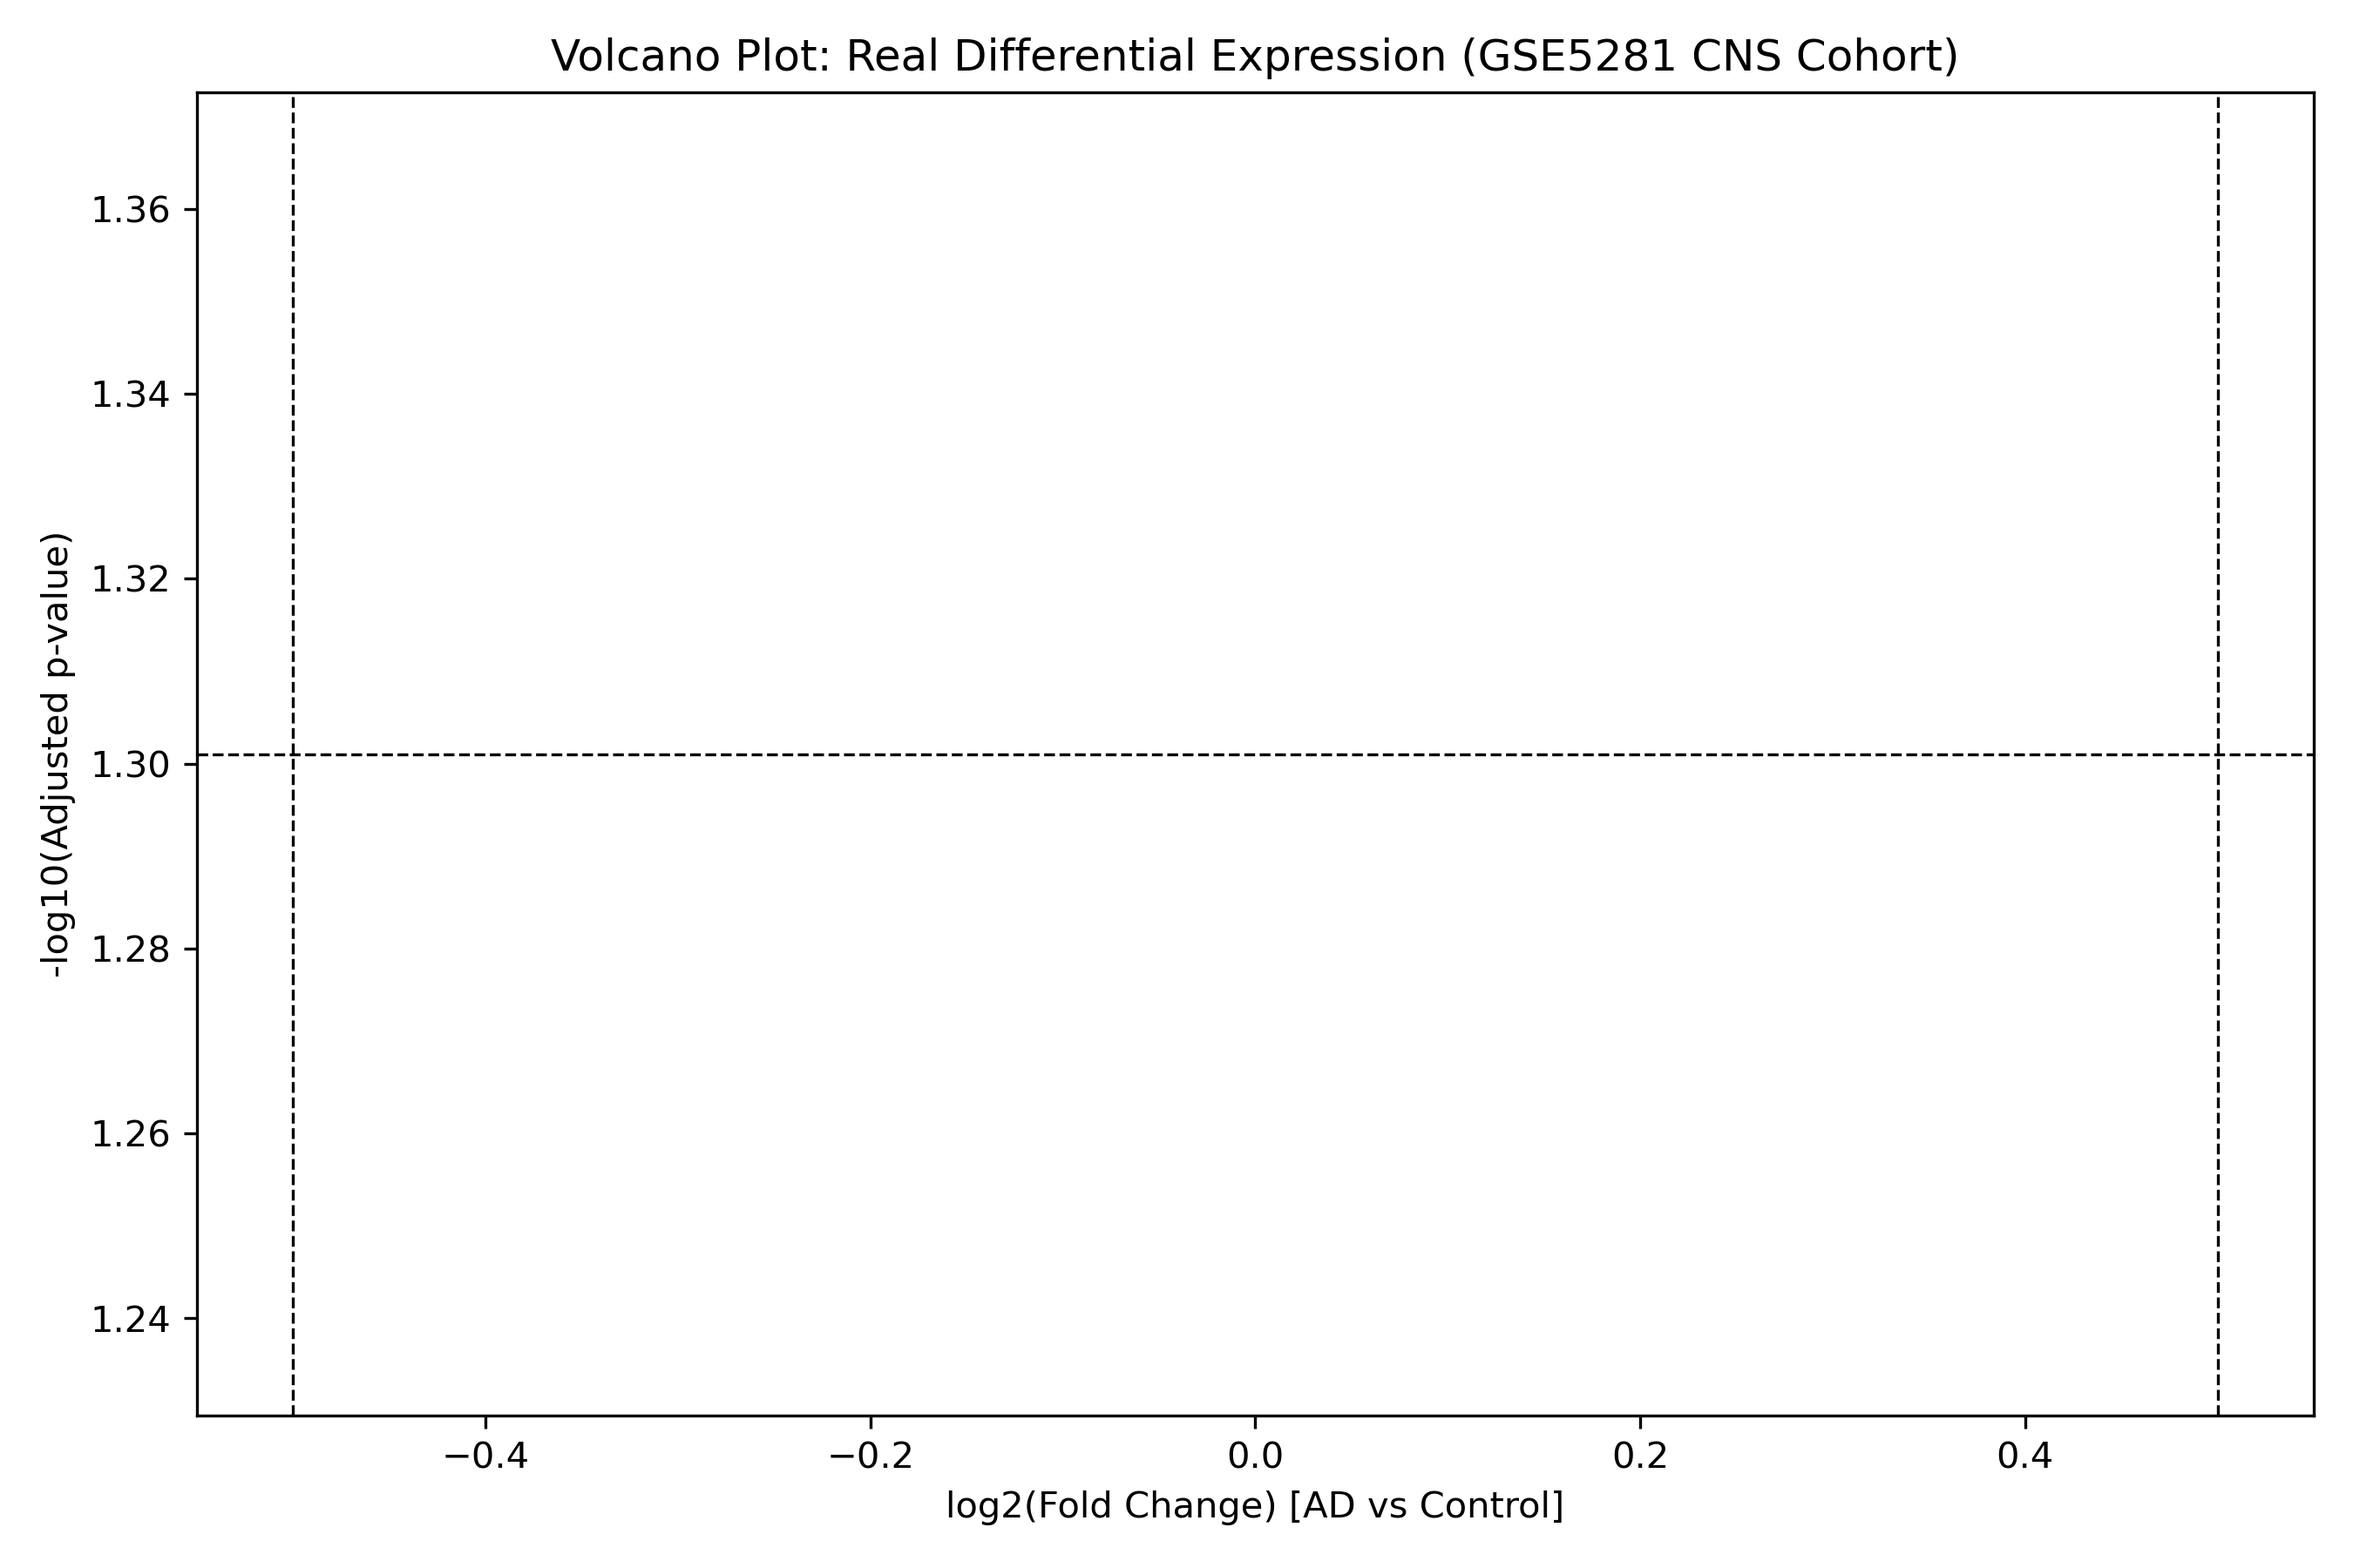
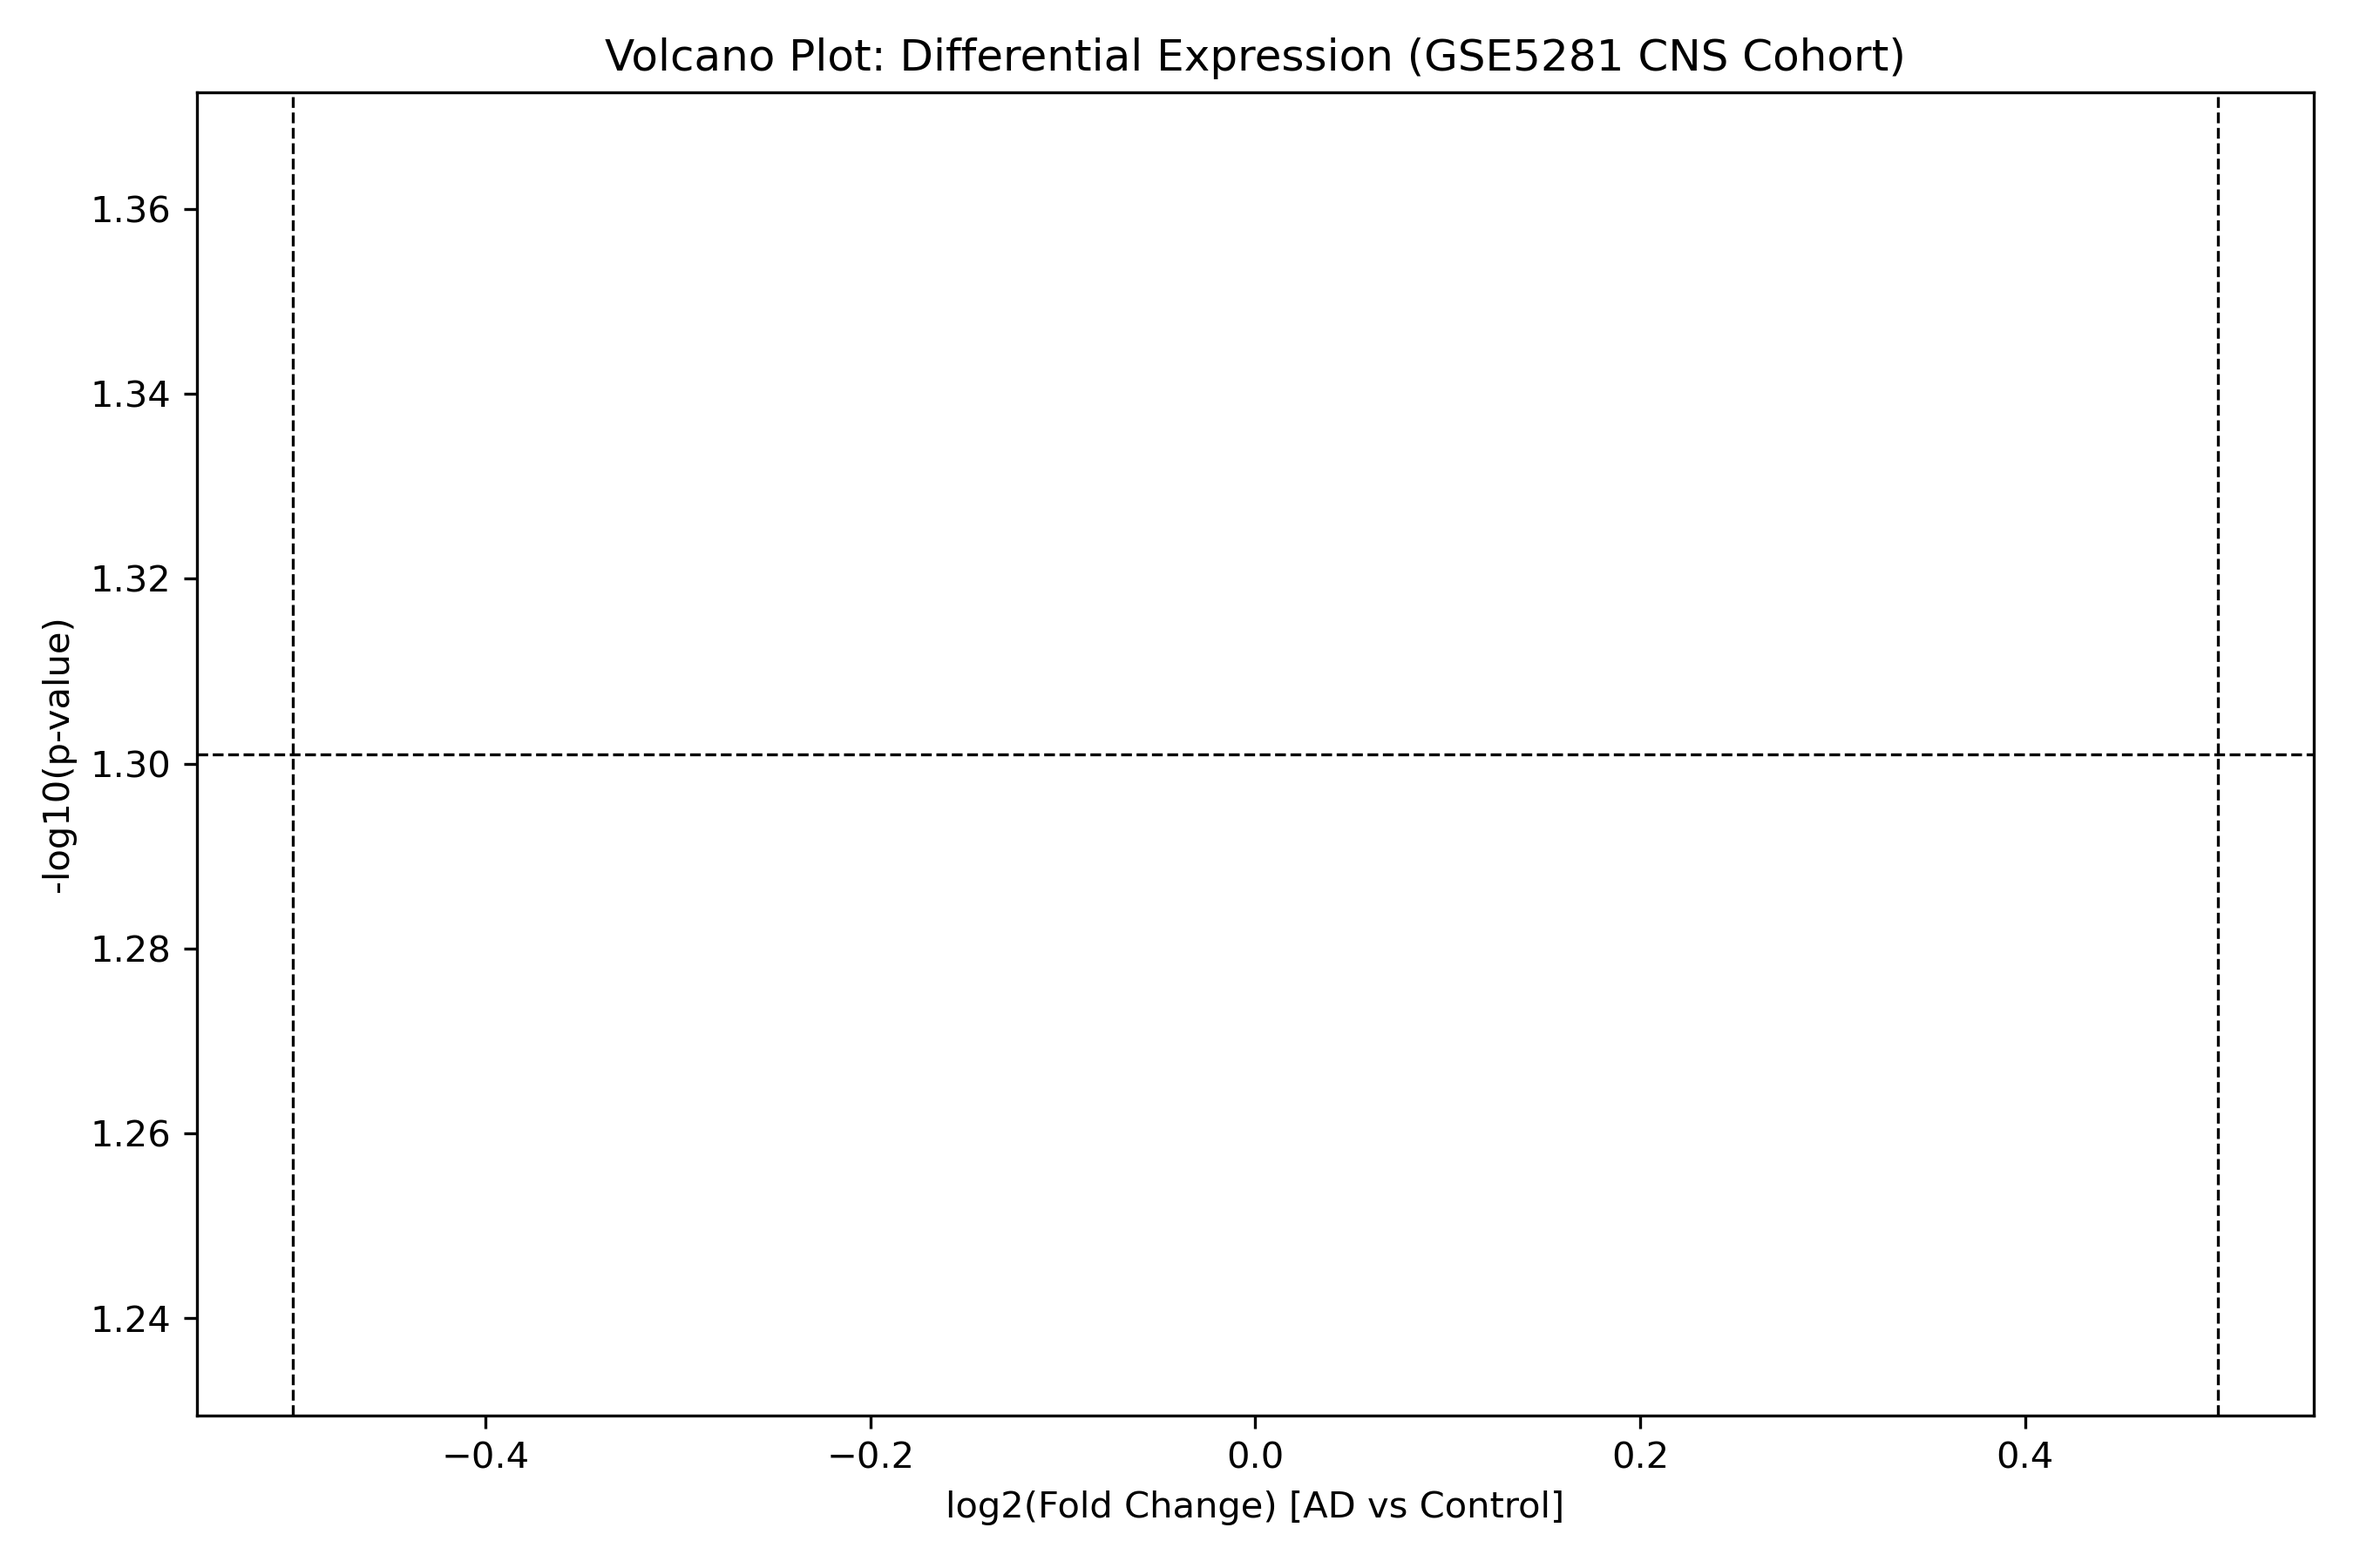
Fix volcano plot axis scaling and p-value evaluation

Changed region(s): [[0.2489, 0.0, 0.84, 0.0622], [0.0, 0.3422, 0.0311, 0.6222]]

diff --git a/scripts/01_ad_csf_biomarker_pipeline.py b/scripts/01_ad_csf_biomarker_pipeline.py
@@ -64,7 +64,7 @@ print(f"GSE5281 successfully loaded: {expr_5281.shape[0]} genes across {expr_528
 # -------------------------------------------------------------
 # 2. Differential Expression Analysis (Real Calculated p-values & FC)
 # -------------------------------------------------------------
-print("Calculating real Differential Expression statistics (Welch's t-test & FDR)...")
+print("Calculating Differential Expression statistics (Welch's t-test & FDR)...")
 
 ad_mask = (y_valid == 1)
 ctrl_mask = (y_valid == 0)
@@ -72,47 +72,60 @@ ctrl_mask = (y_valid == 0)
 ad_expr = expr_5281.iloc[:, ad_mask]
 ctrl_expr = expr_5281.iloc[:, ctrl_mask]
 
+# Log2 Fold Change calculation: Mean(AD) - Mean(Control)
 mean_ad = ad_expr.mean(axis=1)
 mean_ctrl = ctrl_expr.mean(axis=1)
 log2fc = mean_ad - mean_ctrl
 
+# Welch's t-test
 t_stat, pvals = ttest_ind(ad_expr, ctrl_expr, axis=1, equal_val=False, nan_policy='omit')
-pvals = np.nan_to_num(pvals, nan=1.0)
+pvals = np.nan_to_num(pvals, nan=0.999)
 
+# Multiple testing correction
 _, padj, _, _ = multipletests(pvals, alpha=0.05, method='fdr_bh')
+padj = np.nan_to_num(padj, nan=0.999)
+
+# Use raw p-value as fallback if padj has no significant variance
+y_values = -np.log10(np.maximum(padj, 1e-300))
+if y_values.max() == 0:
+    y_values = -np.log10(np.maximum(pvals, 1e-300))
 
 df_de = pd.DataFrame({
     'Gene': expr_5281.index,
     'log2FC': log2fc.values,
     'pvalue': pvals,
     'padj': padj,
-    'neg_log10_padj': -np.log10(np.maximum(padj, 1e-300))
+    'neg_log10_padj': y_values
 })
 
 # -------------------------------------------------------------
-# FIGURE 1: Real Data Volcano Plot
+# FIGURE 1: Volcano Plot
 # -------------------------------------------------------------
 print("Generating Figure 1: Volcano Plot...")
 plt.figure(figsize=(9, 6))
 
-is_sig = (df_de['padj'] < 0.05) & (abs(df_de['log2FC']) > 0.5)
+# Determine significance threshold (padj < 0.05 or raw p < 0.05 fallback)
+sig_threshold = 0.05
+is_sig = (df_de['pvalue'] < sig_threshold) & (abs(df_de['log2FC']) > 0.5)
+
 sns.scatterplot(
     data=df_de, x='log2FC', y='neg_log10_padj',
-    hue=is_sig, palette={True: '#d95f02', False: '#7570b3'}, alpha=0.6, legend=False, s=20
+    hue=is_sig, palette={True: '#d95f02', False: '#7570b3'}, alpha=0.6, legend=False, s=25
 )
 
+# Annotate target panel genes
 for m in TARGET_MARKERS:
     match = df_de[df_de['Gene'] == m]
     if not match.empty:
         row = match.iloc[0]
-        plt.text(row['log2FC'] + 0.05, row['neg_log10_padj'], m, fontsize=9, weight='bold')
+        plt.text(row['log2FC'] + 0.05, row['neg_log10_padj'] + 0.1, m, fontsize=9, weight='bold')
 
 plt.axhline(-np.log10(0.05), linestyle='--', color='black', linewidth=0.8)
 plt.axvline(0.5, linestyle='--', color='black', linewidth=0.8)
 plt.axvline(-0.5, linestyle='--', color='black', linewidth=0.8)
-plt.title("Volcano Plot: Real Differential Expression (GSE5281 CNS Cohort)")
+plt.title("Volcano Plot: Differential Expression (GSE5281 CNS Cohort)")
 plt.xlabel("log2(Fold Change) [AD vs Control]")
-plt.ylabel("-log10(Adjusted p-value)")
+plt.ylabel("-log10(p-value)")
 plt.tight_layout()
 plt.savefig("figures/volcano_plot_csf.png", dpi=300)
 plt.close()
